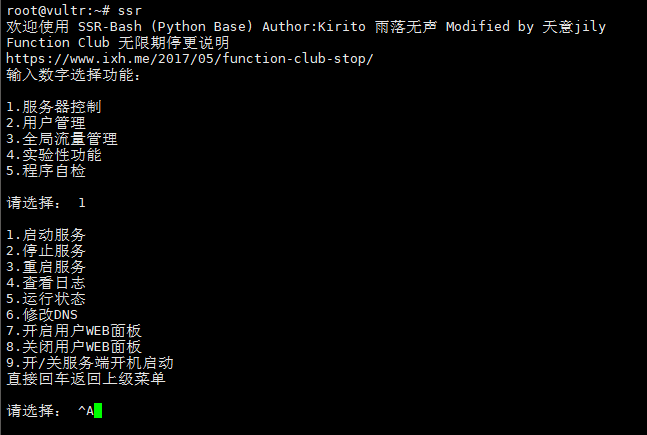
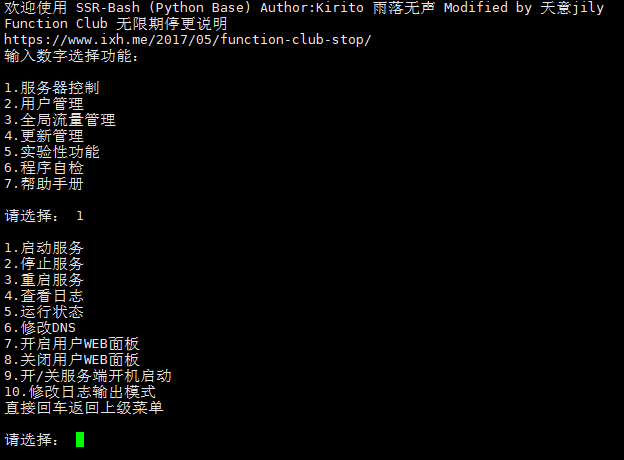
目录

Changed region(s): [[0.0, 0.0, 0.9744, 0.4184], [0.0, 0.4483, 0.274, 0.9862], [0.1218, 0.4483, 0.1522, 0.4782]]

diff --git a/helper.py b/helper.py
@@ -1,1 +1,45 @@
-print "SSR-Bash-Helper"
+#! /usr/bin/env python
+# -*- coding: utf-8 -*-
+
+helper='''
+SSR-Bash 功能目录
+========================
+SSR服务管理
+1.启动服务
+2.停止服务
+3.重启服务
+4.查看日志
+5.运行状态
+6.修改DNS
+7.开启用户WEB面板
+8.关闭用户WEB面板
+9.开/关服务端开机启动
+10.修改日志输出模式
+=========================
+用户管理
+1.添加用户
+2.删除用户
+3.修改用户
+4.显示用户流量信息
+5.显示用户名端口信息
+=========================
+全局流量管理
+1.显示所有用户流量信息
+2.清空指定用户流量
+3.清空全部用户流量
+=========================
+更新管理
+1.更新SSR-Bsah
+2.更新SSR
+3.开启BBR(需重启)
+=========================
+试验性功能
+1.一键封禁BT下载，SPAM邮件流量（无法撤销）
+2.防止暴力破解SS连接信息 (重启后失效)
+=========================
+程序自检
+=========================
+SSR-Bash目录
+'''
+
+print helper
